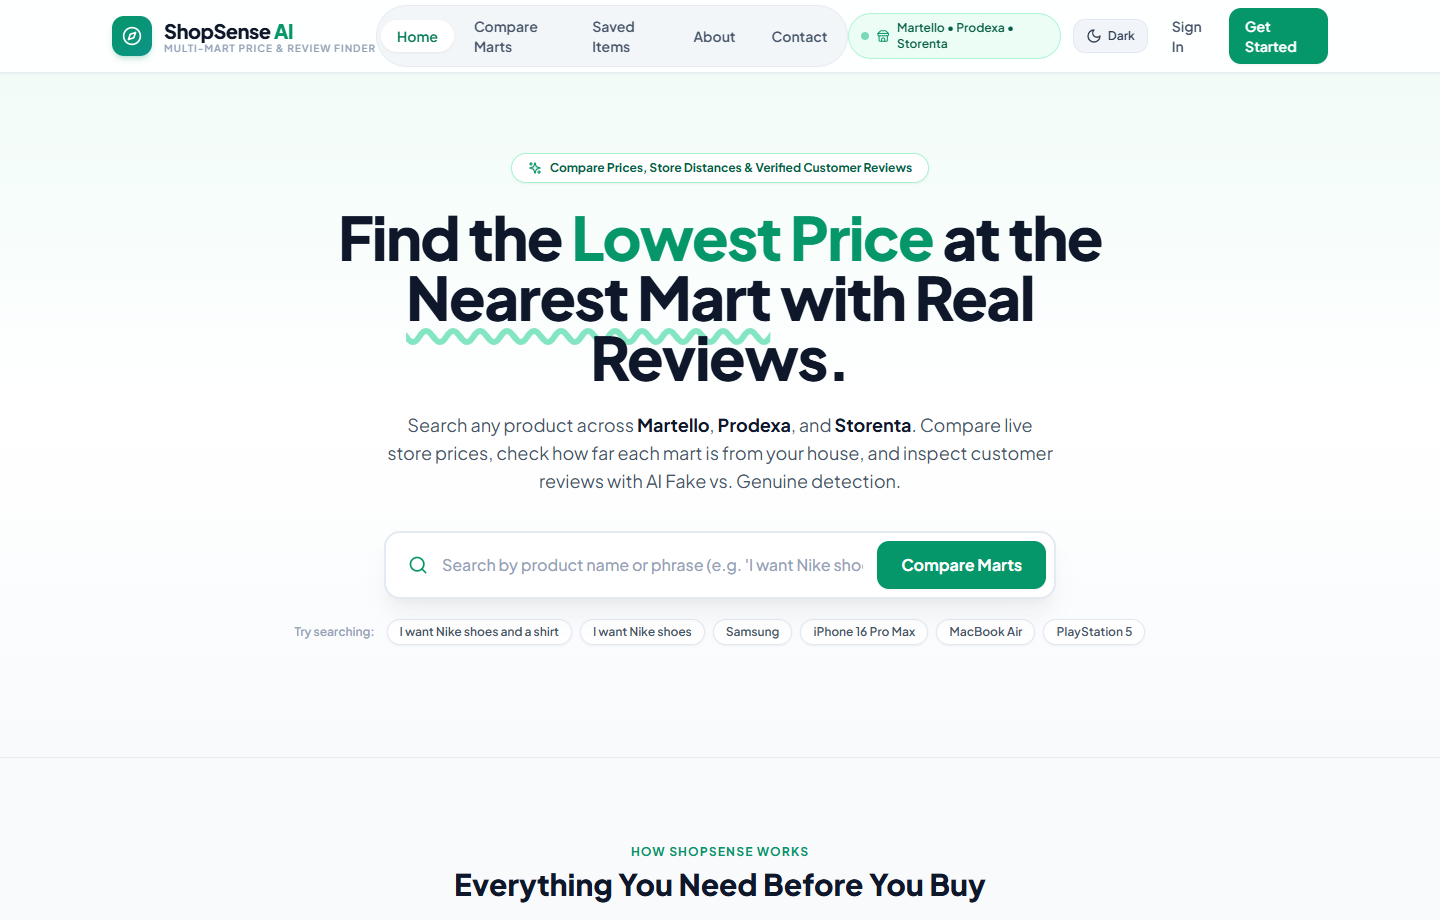
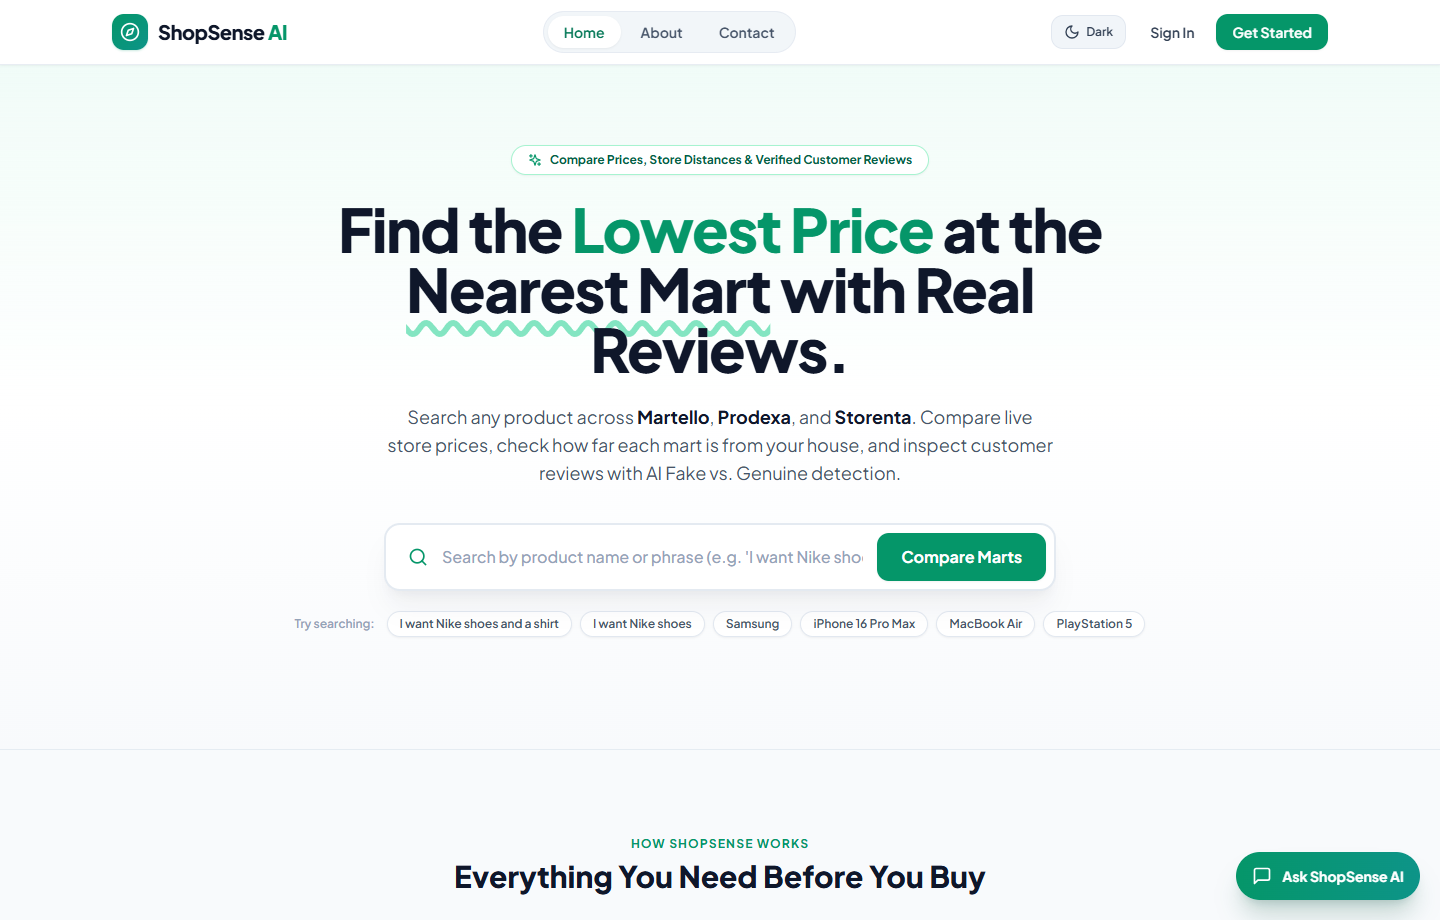
Add AI chatbot screenshot and documentation to README

diff --git a/src/components/ChatBot.tsx b/src/components/ChatBot.tsx
@@ -301,7 +301,24 @@ const ChatBot: React.FC = () => {
     const matchedProducts = matchProductsConversational(userText, maxBudget);
 
     if (matchedProducts.length > 0) {
-      const topProducts = matchedProducts.slice(0, 4).map(summarizeProductForChat);
+      // Pick up to 2 representative items (e.g. 1 shoe + 1 shirt for multi-item queries) so the chat stays compact
+      const uniqueCategoryPicks: Product[] = [];
+      const seenIcons = new Set<string>();
+      for (const p of matchedProducts) {
+        const key = p.tags?.[0] || p.category;
+        if (!seenIcons.has(key) && uniqueCategoryPicks.length < 2) {
+          seenIcons.add(key);
+          uniqueCategoryPicks.push(p);
+        }
+      }
+      for (const p of matchedProducts) {
+        if (uniqueCategoryPicks.length >= 2) break;
+        if (!uniqueCategoryPicks.some(u => u.id === p.id)) {
+          uniqueCategoryPicks.push(p);
+        }
+      }
+
+      const topProducts = uniqueCategoryPicks.map(summarizeProductForChat);
       const first = topProducts[0];
       const budgetNote = maxBudget ? ` under $${maxBudget}` : '';
 

diff --git a/README.md b/README.md
@@ -38,7 +38,21 @@ When a customer searches for a specific product (e.g., `iPhone 16 Pro Max`), a c
 
 ---
 
-### 4. About Page — Platform Overview & Architecture
+### 4. Conversational & Multi-Item Natural Language Search (`"I want Nike shoes and a shirt"`)
+Customers can search using natural language sentences or multi-item requests (e.g., `"I want Nike shoes and a shirt"`). The search engine parses each item clause and displays all matching products with their available marts, live prices, and distances.
+
+![Conversational Multi-Item Search](docs/screenshots/6-natural-language-search.png)
+
+---
+
+### 5. ShopSense AI Shopping Assistant Chatbot
+The floating **Ask ShopSense AI** assistant is accessible from the bottom-right corner of every page. Customers can ask for products, bundles, or budget constraints (e.g., `"I want Nike shoes and a shirt"` or `"Best laptop under $1500"`), view the **Best Genuine Pick** and **Fake Review Alerts** inside interactive chat cards, jump directly to full mart comparisons, or open Google Maps directions. When a customer says `"ok"` or `"thanks"`, the assistant asks *"Do you want something else?"* with **`Suggest Products`** and **`Leave`** buttons.
+
+![ShopSense AI Shopping Assistant Chatbot](docs/screenshots/7-ai-chatbot.png)
+
+---
+
+### 6. About Page — Platform Overview & Architecture
 ![About ShopSense AI](docs/screenshots/5-about-page.png)
 
 ---
